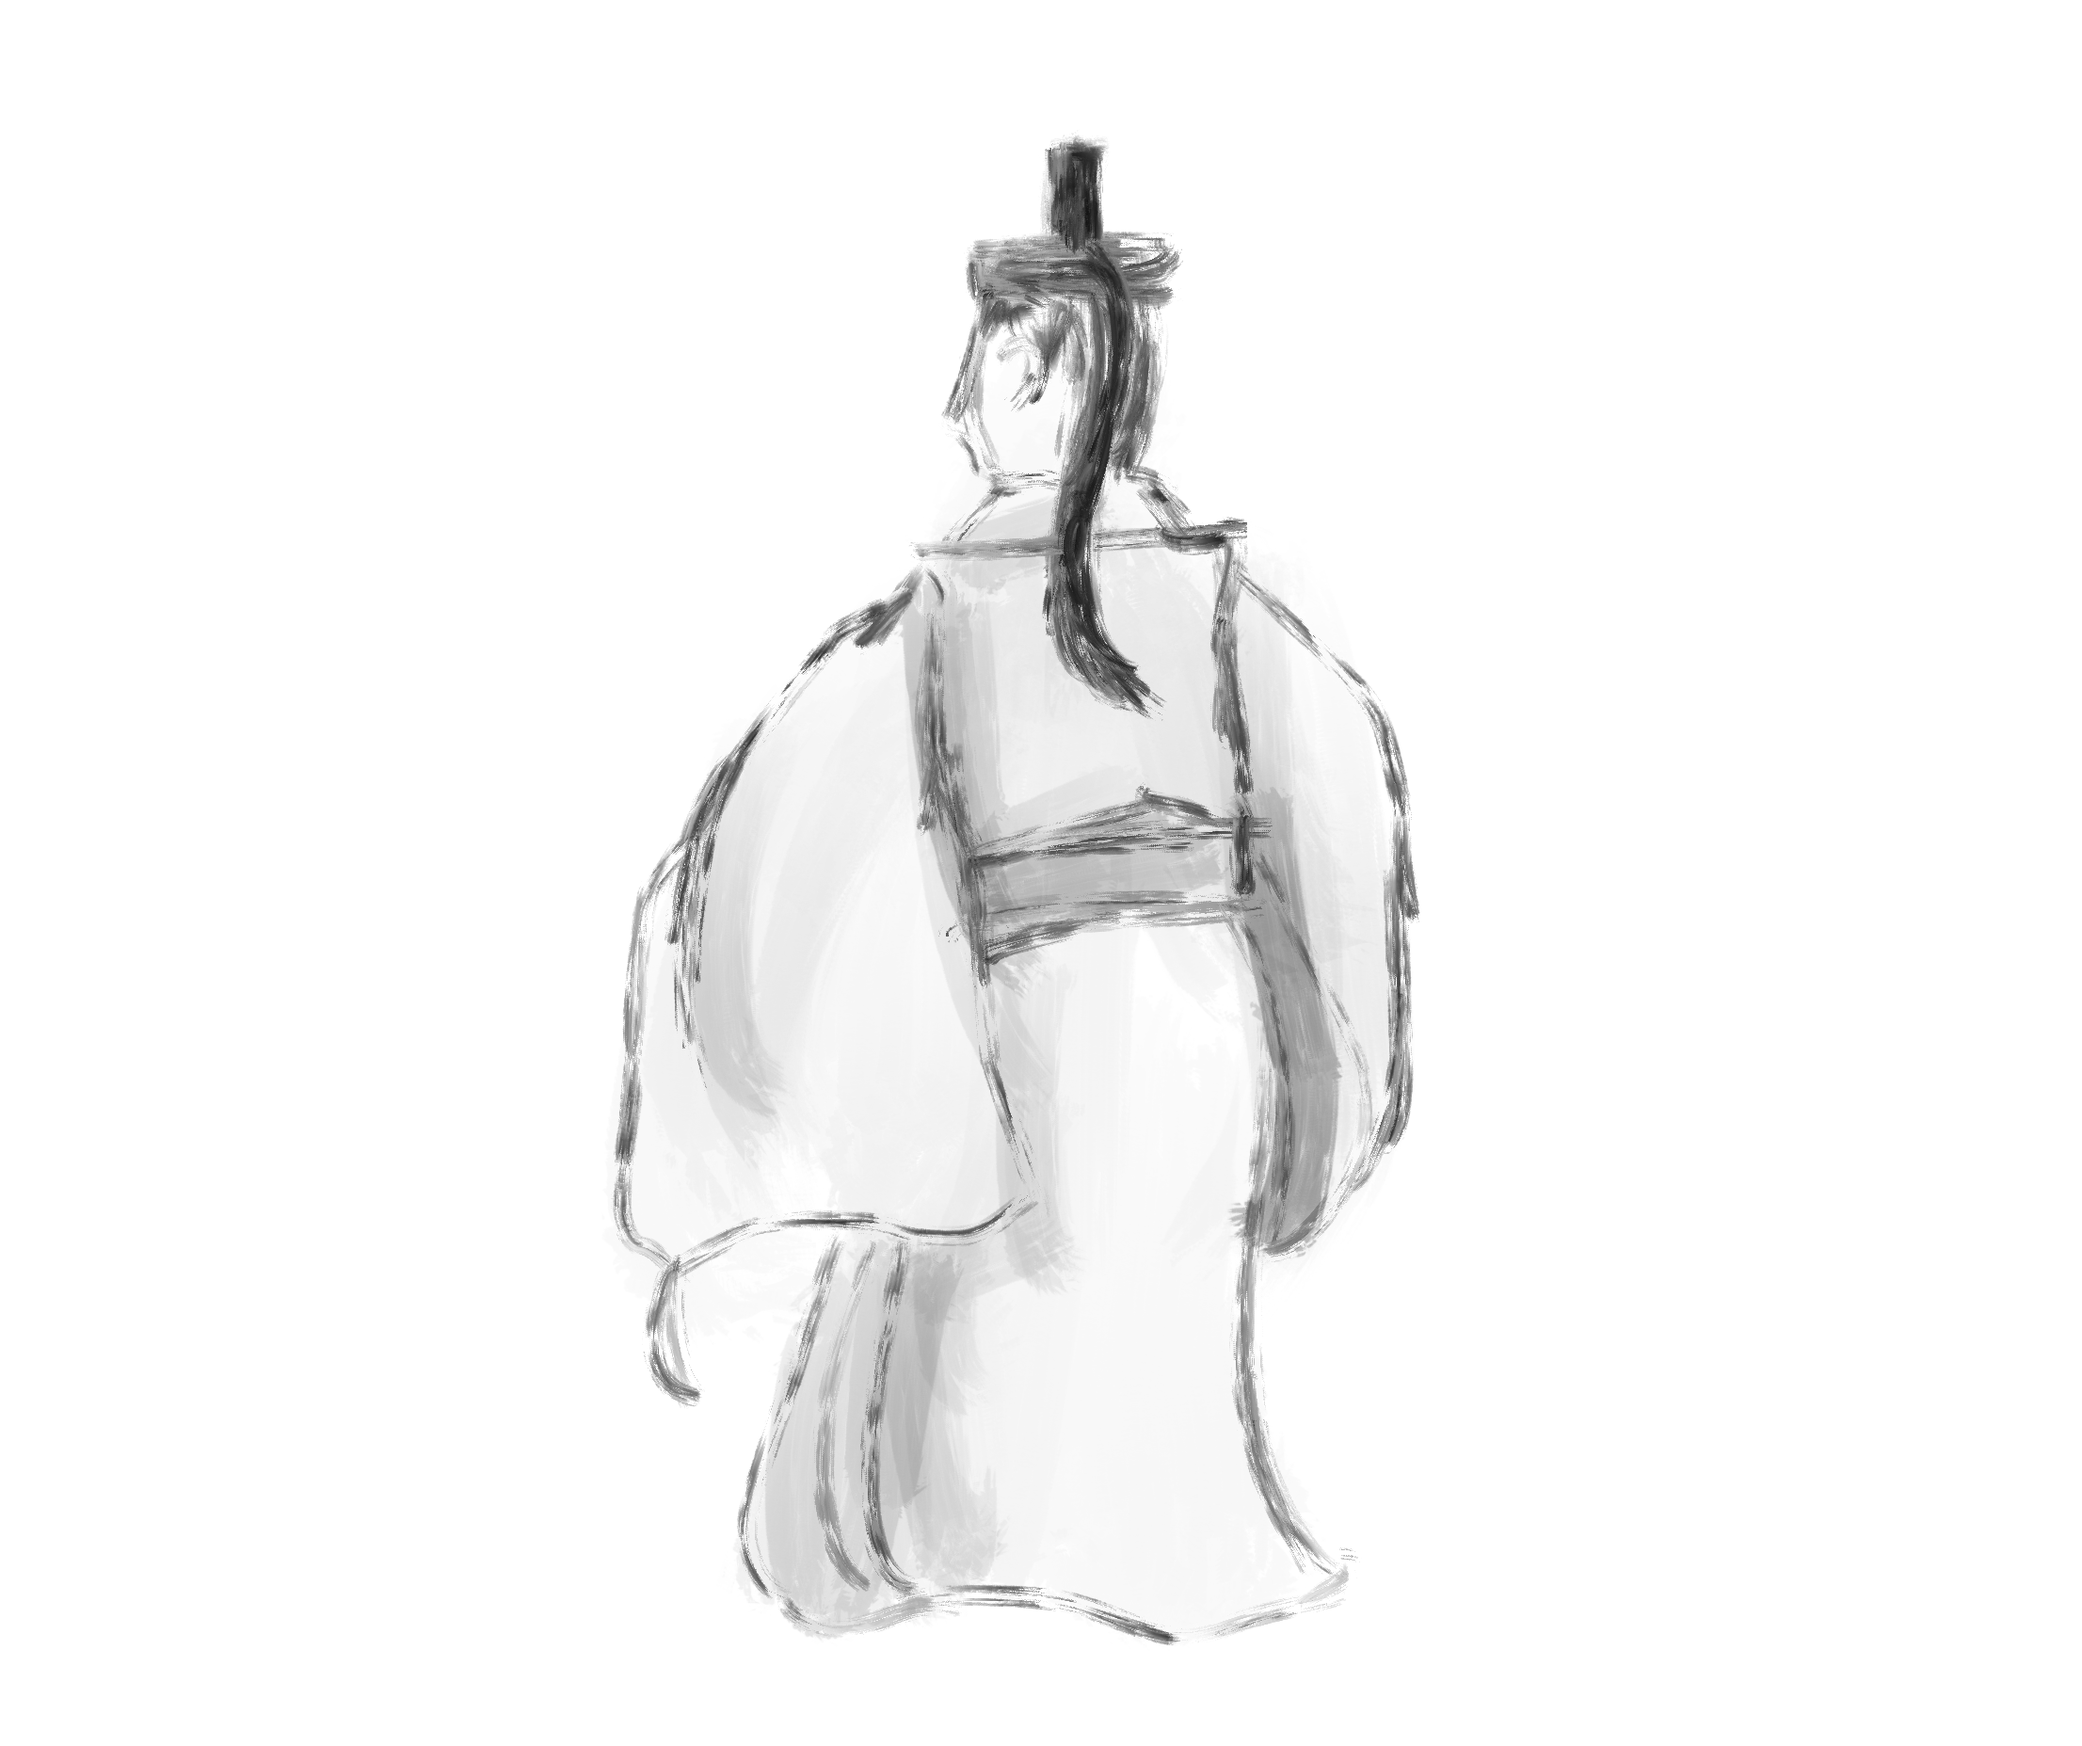
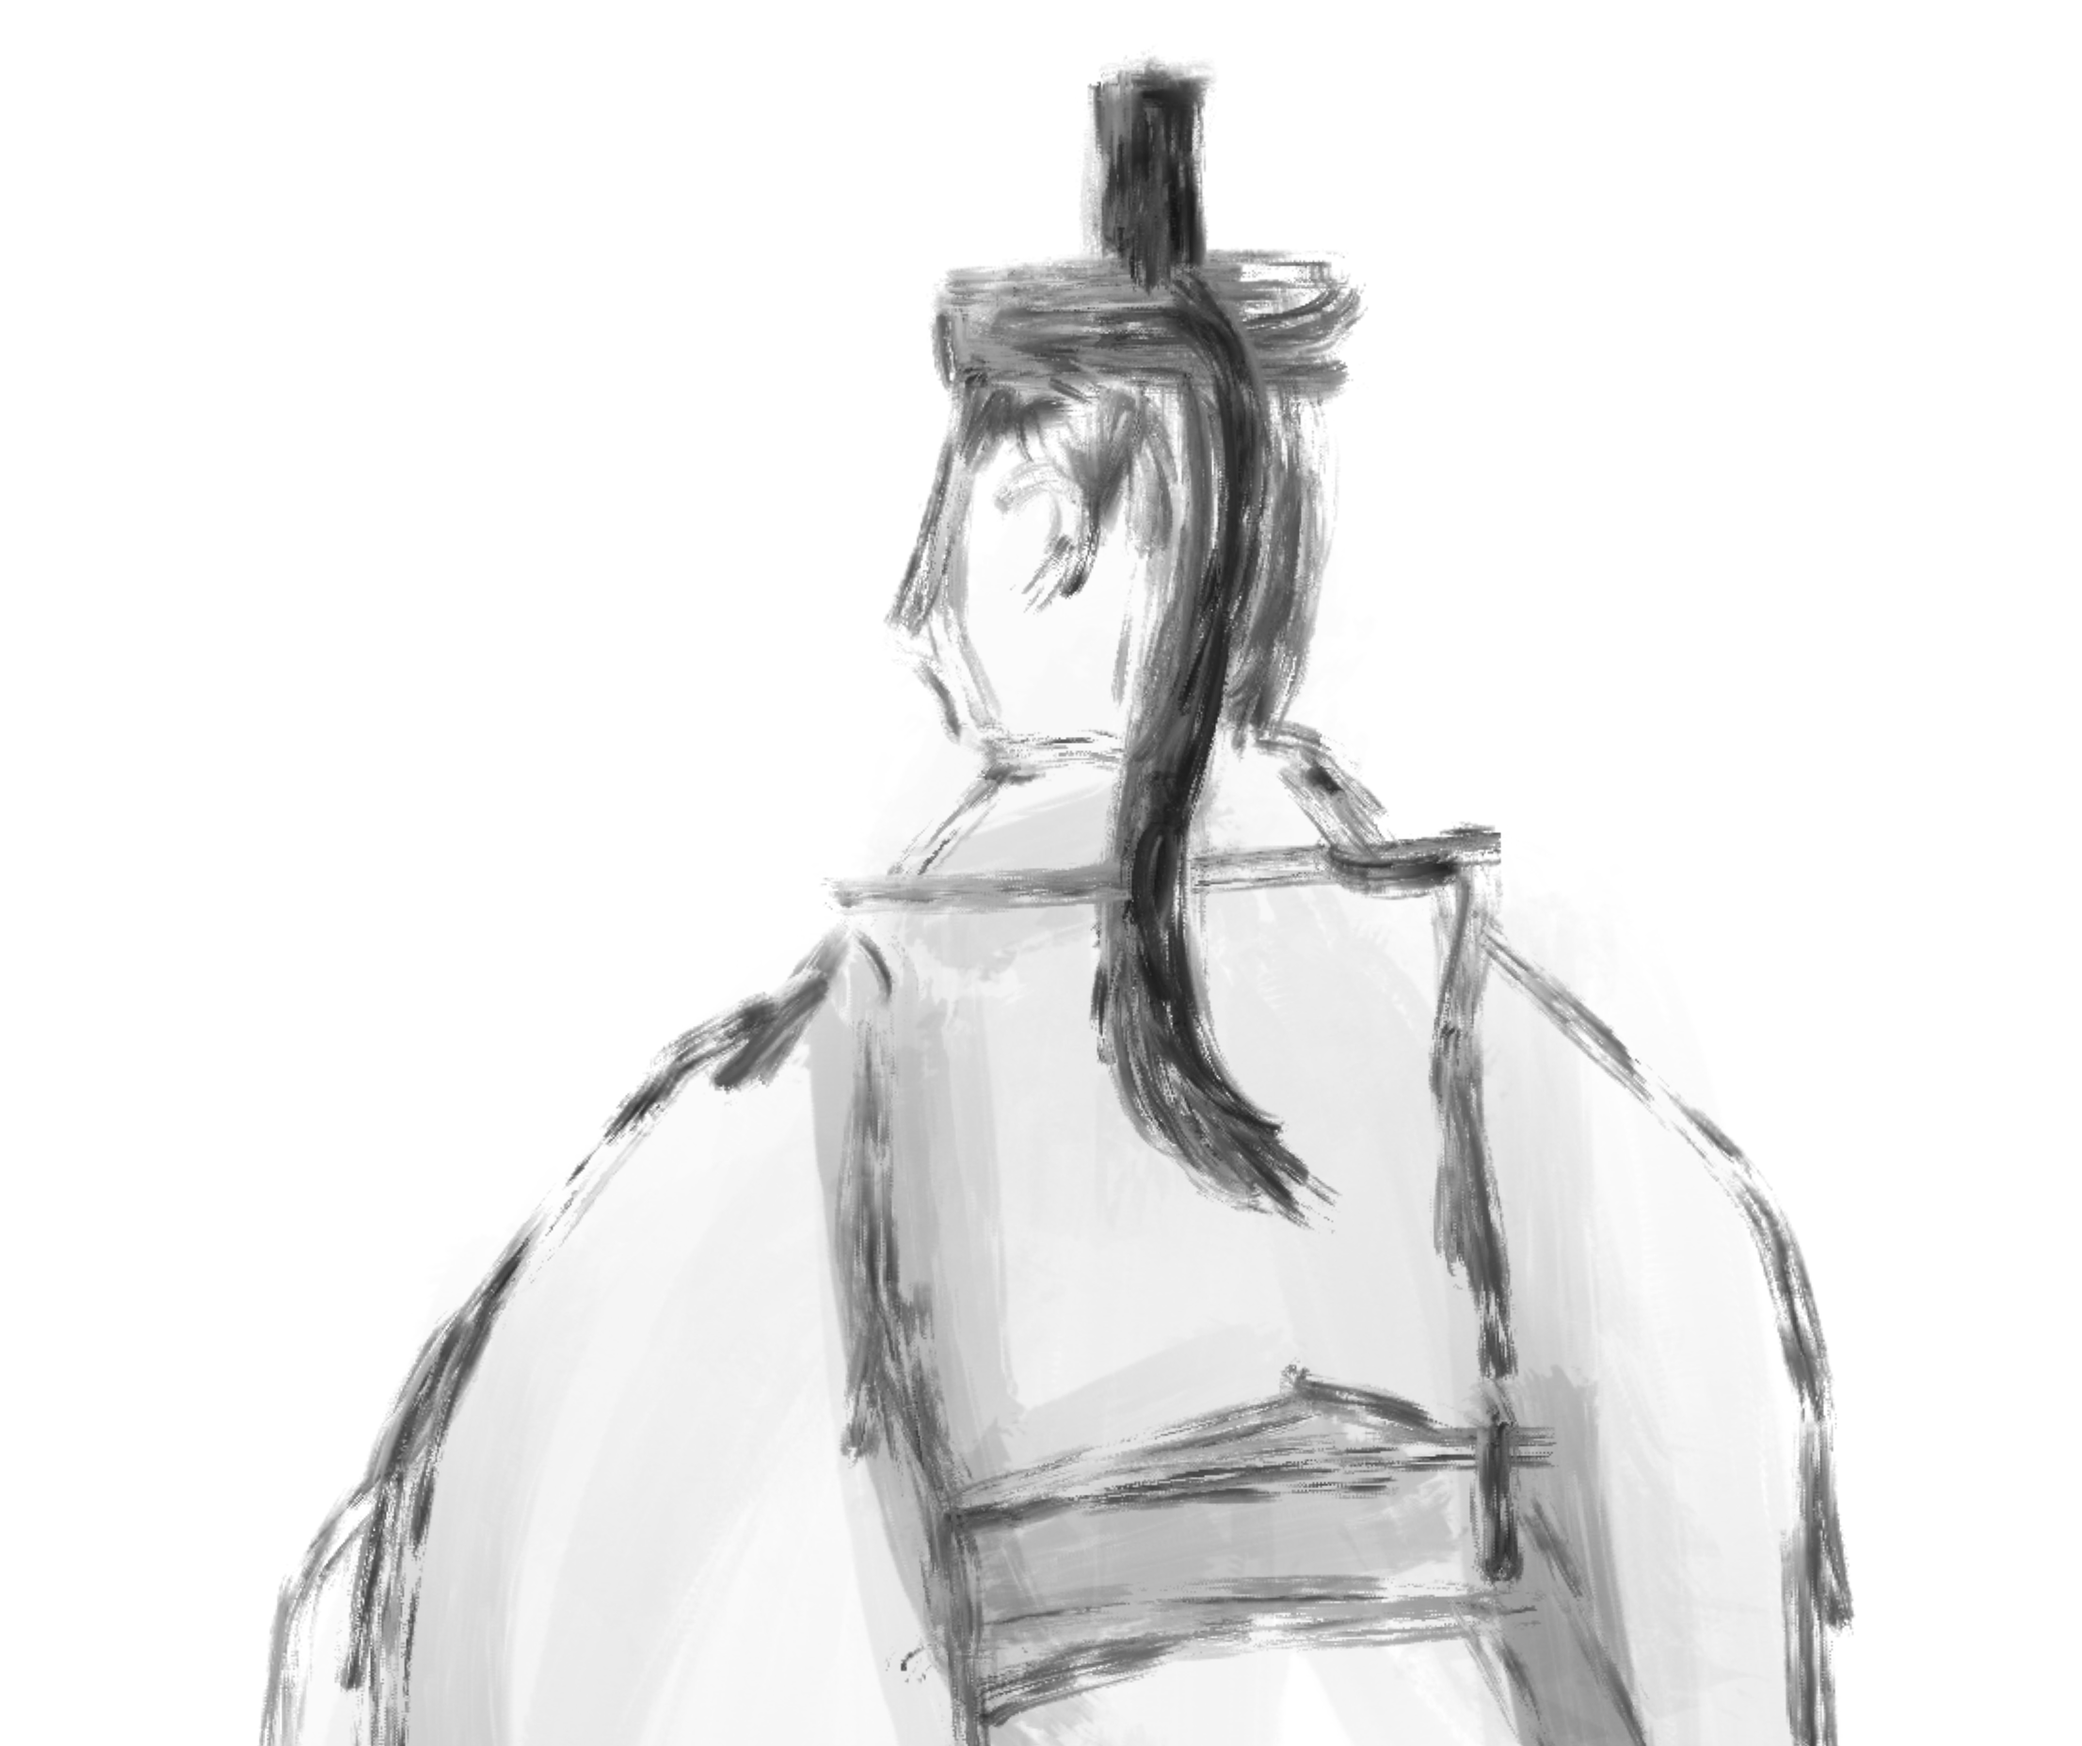
履歴にcss適用

diff --git a/frontend/my-app/src/components/ExcuseHistory.jsx b/frontend/my-app/src/components/ExcuseHistory.jsx
@@ -14,7 +14,7 @@ function ExcuseHistory({ history }) {
                 <strong>入力:</strong> {item.input}
               </div>
               <img
-                src="/ユーザーアイコン(女).png" /* ← /public は付けない */
+                src="/ユーザーアイコン(女).png"
                 alt="ユーザーアイコン"
                 className={styles.icon}
               />
@@ -22,11 +22,7 @@ function ExcuseHistory({ history }) {
 
             {/* AI行（左寄せ） */}
             <div className={styles.aiSide}>
-              <img
-                src="/男性.png" /* ← /public は付けない */
-                alt="AIアイコン"
-                className={styles.icon}
-              />
+              <img src="/男性.png" alt="AIアイコン" className={styles.icon} />
               <div className={styles.message}>
                 <strong>出力:</strong> {item.output}
               </div>

diff --git a/frontend/my-app/src/styles/MainPage.module.css b/frontend/my-app/src/styles/MainPage.module.css
@@ -55,7 +55,12 @@
 }
 
 .historyPageContainer {
-  padding: 20px;
+  width: 100vw;
+  margin: 0 calc(50% - 50vw);
+
+  border-radius: 5px;
+  padding: 24px;
+  box-sizing: border-box;
 }
 
 .historyPageContainer h1 {
@@ -71,20 +76,27 @@
 .historyContainer {
   margin-top: 20px;
   padding: 10px;
-  border: 1px solid #c83535;
   border-radius: 5px;
-  background-color: #f2acac;
+}
+
+.historyContainer > h2 {
+  margin: 0 0 16px;
+  text-align: center;
 }
 
 .historyContainer ul {
-  list-style-type: none;
+  list-style: none;
   padding: 0;
+  margin: 0;
 }
 
 .historyContainer li {
   margin-bottom: 10px;
   padding: 10px;
-  border-bottom: 1px solid #ddd;
+}
+
+.historyItem {
+  padding: 16px 0;
 }
 
 .historyItem p {
